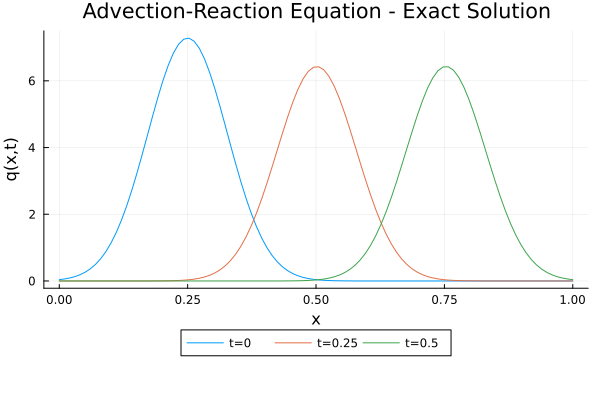
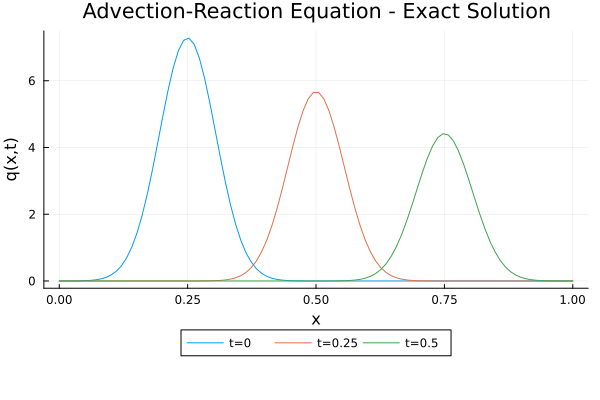
fix typos

diff --git a/template.tex b/template.tex
@@ -623,7 +623,7 @@ We can compute the exact solution of \eqref{eq:advec}, because along the charact
 	% where an .eps filename suffix will be assumed under latex, 
 	% and a .pdf suffix will be assumed for pdflatex; or what has been declared
 	% via \DeclareGraphicsExtensions.
-	\caption{Evolution of the exact solution with $\bar{u}=1$, $\beta=1-x$, and $\mathring{q}=\text{Gaussian}(0.25,0.03)$. We see that the maximum point decreases in time as the decay factor becomes stronger.}
+	\caption{Evolution of the exact solution with $\bar{u}=1$, $\beta=1$, and $\mathring{q}=\text{Gaussian}(0.25,0.003)$. We see that the maximum point decreases in time.}
 	\label{fig:exact}
 \end{figure}
 
